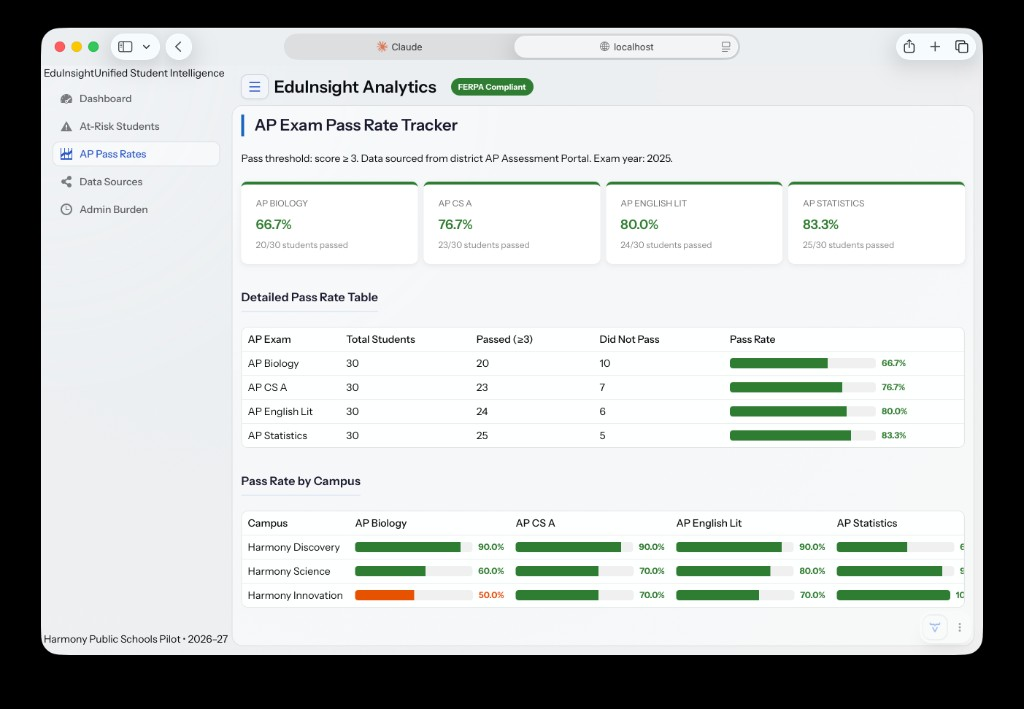
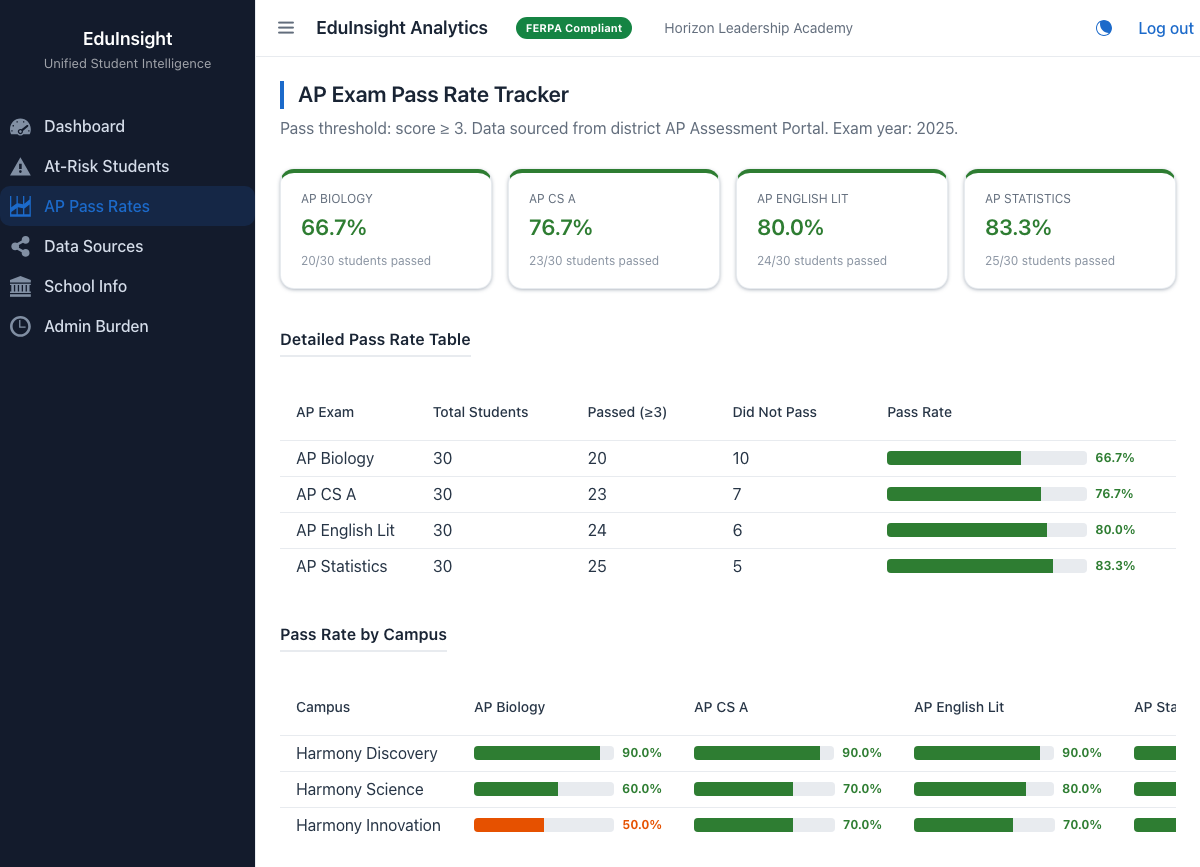
docs: reframe README as multi-school, not Harmony-only, with new screenshots
The previous README refresh commit was pushed to feature/multi-school-
portal-redesign after that branch's PR had already been merged, so none
of it ever reached main - it still described a Harmony-specific pilot
with stale, pre-redesign screenshots. This brings that content forward
and goes further: the intro, Signing In section, and Business Context now
explicitly frame EduInsight as a multi-tenant platform for any school or
district, using Harmony Public Schools and the unrelated Horizon
Leadership Academy as two proof-of-concept organizations rather than
treating Harmony as the product's identity.

Adds a side-by-side dashboard comparison (dashboard-harmony.png vs
dashboard-horizon.png) showing the same app rebranding per signed-in
school, plus the login and School Info screenshots, and re-captures the
At-Risk/AP Pass Rates/Data Sources/Admin Burden screenshots that were
stale after the sidebar reskin and expanded integrations list.

diff --git a/README.md b/README.md
@@ -1,13 +1,15 @@
 # EduInsight Analytics — MVP Demo
 
-FERPA-compliant student data middleware that unifies Schoology, Skyward, CodeHS, and GMETRIX into a single teacher dashboard. Built for the Harmony Public Schools 2026–27 pilot.
+FERPA-compliant student data middleware that unifies Schoology, Skyward, Google Classroom, CodeHS, GMETRIX, Codeium, Edres, ClassLink, Snowflake, and Databricks into a single teacher dashboard — for **any K-12 school or district**, not a single-tenant tool built around one customer.
+
+The platform is multi-school by design: each school or district signs in with its own credentials and sees its own name, data, and branding throughout the app. The demo ships with two example organizations to prove that out — the **Harmony Public Schools** charter network (three campuses, the original pilot partner) and **Horizon Leadership Academy**, an unrelated independent private school with no connection to Harmony. Onboarding a third district or school is a matter of adding another entry to the school directory, not a code fork.
 
 ## Stack
 
 | Layer | Technology |
 |-------|-----------|
 | Backend | Java 25, Spring Boot 4.0.6 |
-| Frontend | Vaadin 25.1.1 |
+| Frontend | Vaadin 25.1.1 (custom Lumo theme, adaptive light/dark mode) |
 | Database | H2 in-memory (demo) → Snowflake (production) |
 | Build | Gradle 9.4.1 |
 
@@ -17,28 +19,47 @@ FERPA-compliant student data middleware that unifies Schoology, Skyward, CodeHS,
 ./gradlew bootRun
 ```
 
-Then open: **<http://localhost:8080>**
+Then open: **<http://localhost:8080>** — you'll land on the sign-in page first (see [Signing In](#signing-in) below).
 
 H2 Console (inspect seeded data): **<http://localhost:8080/h2-console>**
 
 - JDBC URL: `jdbc:h2:mem:eduinsight`
 - Username: `sa` / Password: *(empty)*
 
+## Signing In
+
+Access is gated per school with a lightweight, session-based demo login (no real identity provider — this is a demo, not production auth). Whichever school you sign in as, its name replaces every generic label in the app — sidebar, header, and dashboard copy all rebrand to match.
+
+| School | Organization | Username | Password |
+|--------|--------------|----------|----------|
+| Harmony Discovery | Harmony Public Schools | `harmony.discovery` | `demo123` |
+| Harmony Science | Harmony Public Schools | `harmony.science` | `demo123` |
+| Harmony Innovation | Harmony Public Schools | `harmony.innovation` | `demo123` |
+| Horizon Leadership Academy | Independent private school | `horizon.leadership` | `demo123` |
+| Harmony Public Schools — District Office | Harmony Public Schools (district-wide view) | `district.admin` | `demo123` |
+
+![Sign In](docs/screenshots/login.png)
+
+The same dashboard, branded two different ways depending on who's signed in:
+
+| Signed in as Harmony Discovery | Signed in as Horizon Leadership Academy |
+|---|---|
+| ![Dashboard — Harmony Discovery](docs/screenshots/dashboard-harmony.png) | ![Dashboard — Horizon Leadership Academy](docs/screenshots/dashboard-horizon.png) |
+
 ## Dashboard Views
 
 | View | Route | Description |
 |------|-------|-------------|
-| Dashboard | `/` | Overview: student counts, risk distribution, AP rates, ingestion stats |
-| At-Risk Students | `/at-risk` | Filterable grid with early-warning flags from all 3 platforms |
+| Dashboard | `/dashboard` (alias `/`) | Overview: student counts, risk distribution, AP rates, ingestion stats, KPI trend deltas |
+| At-Risk Students | `/at-risk` | Filterable grid with early-warning flags from all connected platforms |
 | AP Pass Rates | `/ap-rates` | Exam pass rates per course and campus |
-| Data Sources | `/data-sources` | Platform integration cards, architecture diagram, status table |
+| Data Sources | `/data-sources` | Platform integration cards, AI/data-analytics layer, architecture diagram, status table |
+| School Info | `/school-info` | Directory of every participating school, regardless of network — contact details and enrollment |
 | Admin Burden | `/admin-burden` | Time-saved metrics: 42 min → 3 min per planning period |
 
+The app automatically follows your OS light/dark mode preference (a manual toggle in the header lets you override it for a demo).
+
 ## Screenshots
-
-### District Dashboard
-
-![District Dashboard](docs/screenshots/dashboard.png)
 
 ### At-Risk Student Identification
 
@@ -56,21 +77,24 @@ H2 Console (inspect seeded data): **<http://localhost:8080/h2-console>**
 
 ![Data Sources Integration Table](docs/screenshots/data-sources-integration-table.png)
 
+### School Information Directory
+
+Every onboarded school shows up here side by side, whichever network it belongs to:
+
+![School Info](docs/screenshots/school-info.png)
+
 ### Administrative Burden Reduction
 
-![Administrative Burden Hero](docs/screenshots/admin-burden-hero.png)
-
-### Savings Projection and Outcomes
-
-![Administrative Burden Savings](docs/screenshots/admin-burden-savings.png)
+![Administrative Burden Reduction](docs/screenshots/admin-burden.png)
 
 ## Demo Data
 
-- **60 students** across 3 Harmony campuses (Discovery, Science, Innovation)
+- **60 students** across 3 Harmony campuses (Discovery, Science, Innovation). Horizon Leadership Academy has no seeded student rows — it demonstrates the login/branding flow with a fixed demo enrollment figure instead, showing the platform doesn't require every tenant to share the same data pipeline.
 - **Grade records** from Schoology (4 AP courses, 10 records/student)
 - **Attendance records** from Skyward (50+ records/student, realistic present/absent/tardy)
 - **Coding progress** from CodeHS and GMETRIX (IBC certification tracking)
 - **AP assessment scores** for 11th/12th graders (realistic 1–5 distribution)
+- All other integrations shown on the Data Sources page (Google Classroom, Codeium, Harmony ClassLink, Edres, Snowflake, Databricks) are illustrative/mock — there are no real API credentials or live connections behind them.
 
 ## At-Risk Scoring
 
@@ -86,7 +110,7 @@ A student is flagged based on data from three platforms:
 
 ## Business Context
 
-EduInsight addresses a market gap: enterprise data warehouse alternatives cost $250,000+ per deployment, while this platform targets Title I districts. The Harmony pilot (documented by Principal Ali Sarioglu and Coach Yilmaz Kahraman) will validate the 42-minute-per-planning-period reduction confirmed by district audit.
+EduInsight addresses a market gap: enterprise data warehouse alternatives cost $250,000+ per deployment, while this platform targets Title I districts and independent schools alike. Harmony Public Schools (documented by Principal Ali Sarioglu and Coach Yilmaz Kahraman) is the original pilot partner and the source of the 42-minute-per-planning-period reduction confirmed by district audit — but the architecture is built to onboard any school or district, which is why the demo also includes an unaffiliated private school out of the box.
 
 ---
 
